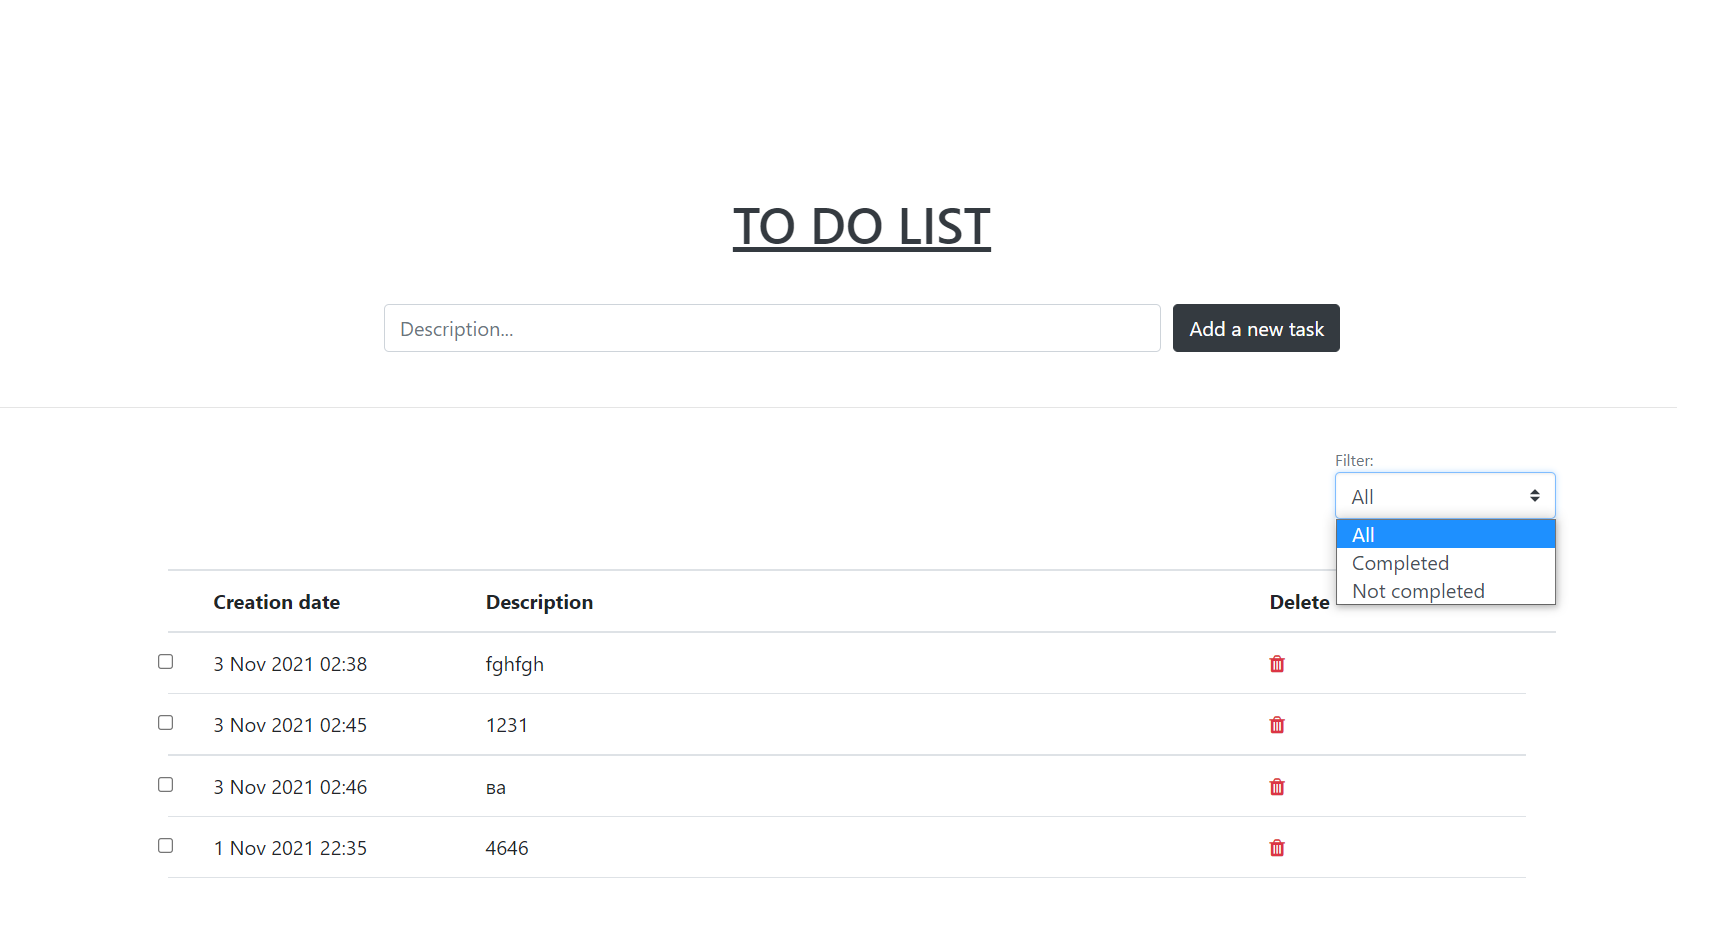
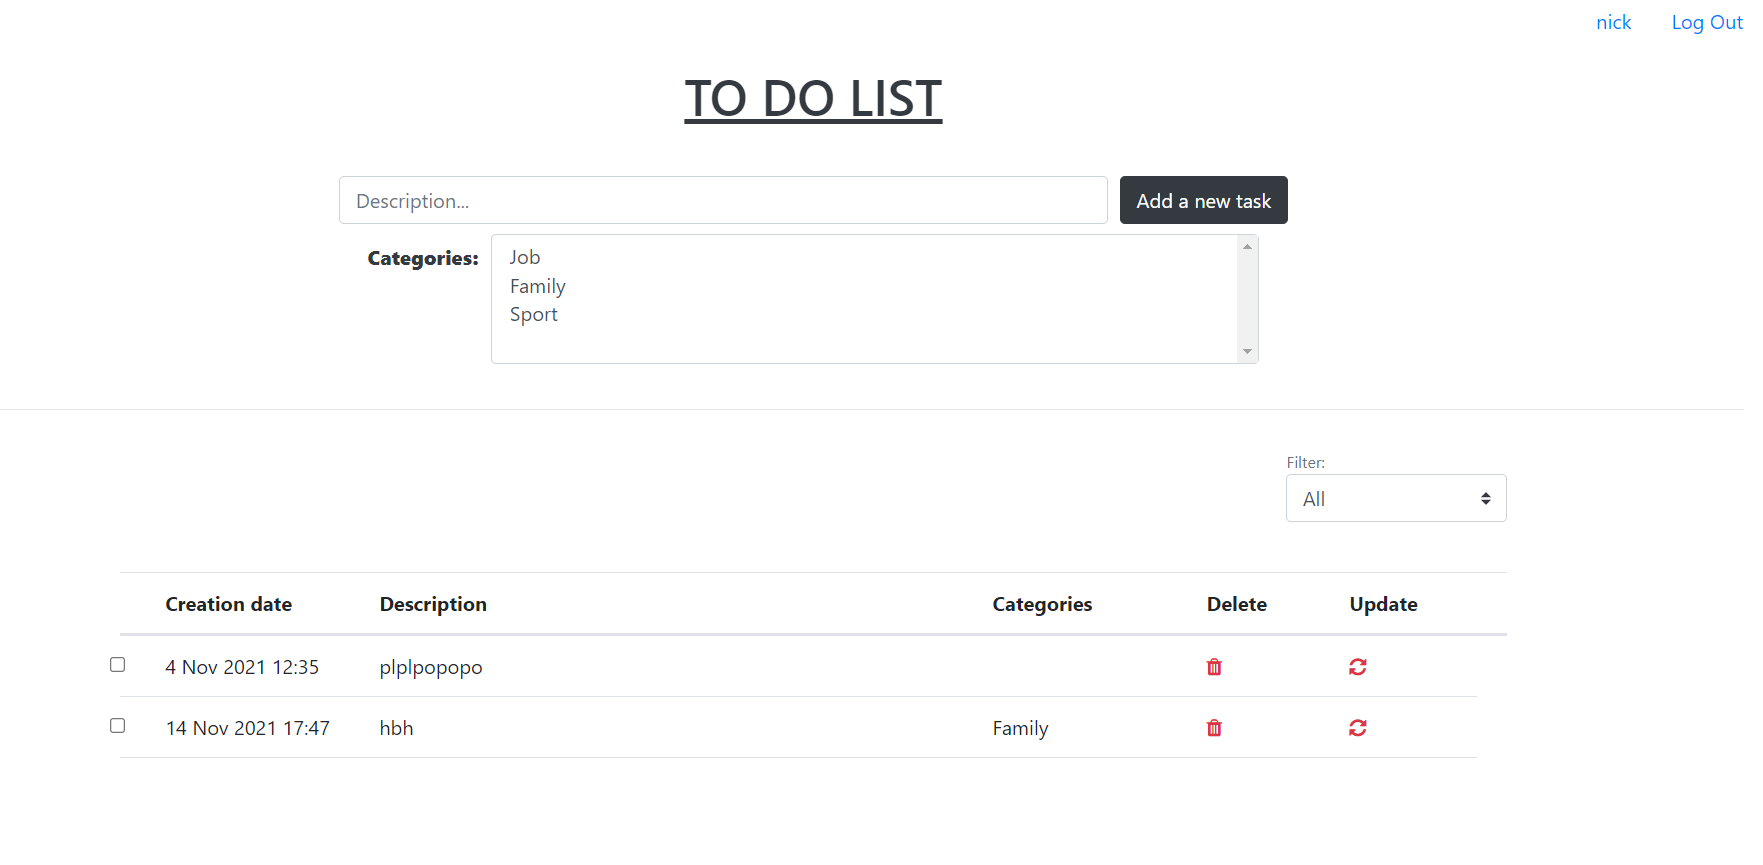
Обновлены скриншоты

diff --git a/README.md b/README.md
@@ -1,11 +1,15 @@
 [![Build Status](https://app.travis-ci.com/ainz713/job4j_todo.svg?branch=master)](https://app.travis-ci.com/ainz713/job4j_todo)
 # job4j_todo
 
-Проект представляет собой приложение "TODO список". На главной странице отображается список 
-задач с датой создания, описанием, чек-боксом "Выполнено/ Не выполнено".
+Проект представляет собой приложение "TODO список". 
+Для входа необходимо выполнить авторизацию или зарегистрироваться.
 ![ScreenShot](images/image1.png)
-Чтобы добавить новую задачу, необходимо заполнить описание и нажать кнопку "Add a new task".
-По фильтру можно выбрать список выполненных, невыполненных задач или отобразить все.
+На главной странице отображается список задач с датой создания, описанием, перечнем категорий,
+чек-боксом "Выполнено/ Не выполнено", кнопками "Удалить" и "Обновить".
 ![ScreenShot](images/image2.png)
+Чтобы добавить новую задачу, необходимо заполнить описание, выбрать одну или несколько категорий
+и нажать кнопку "Add a new task".
+По фильтру можно выбрать список выполненных, невыполненных задач или отобразить все.
+![ScreenShot](images/image3.png)
 
 
